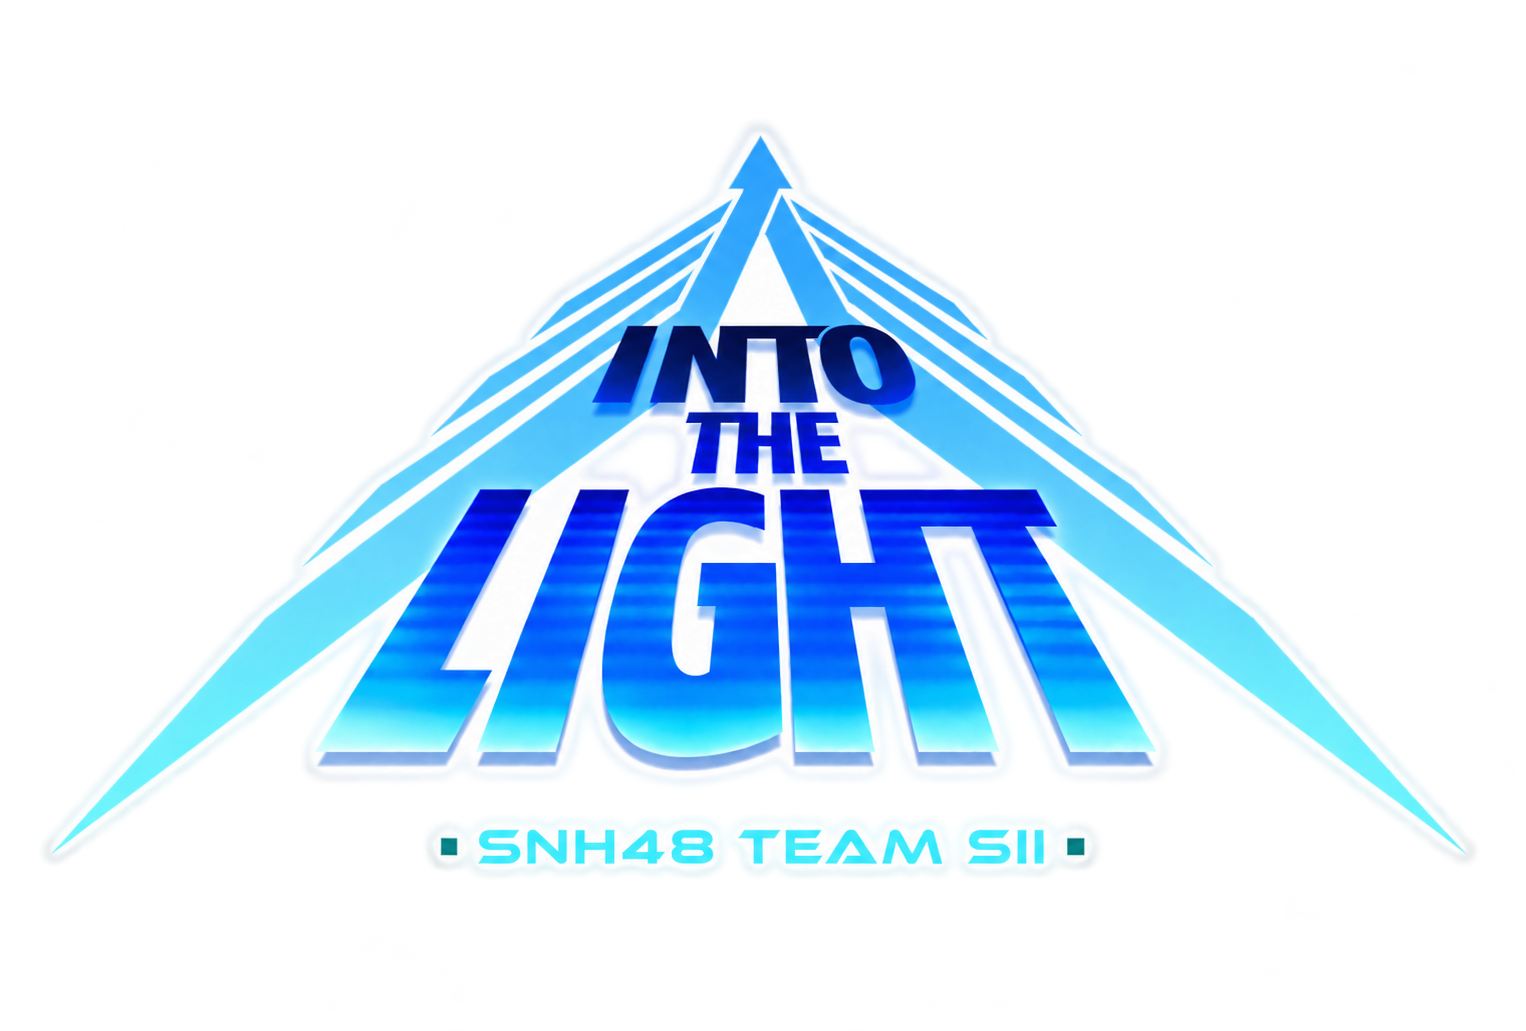
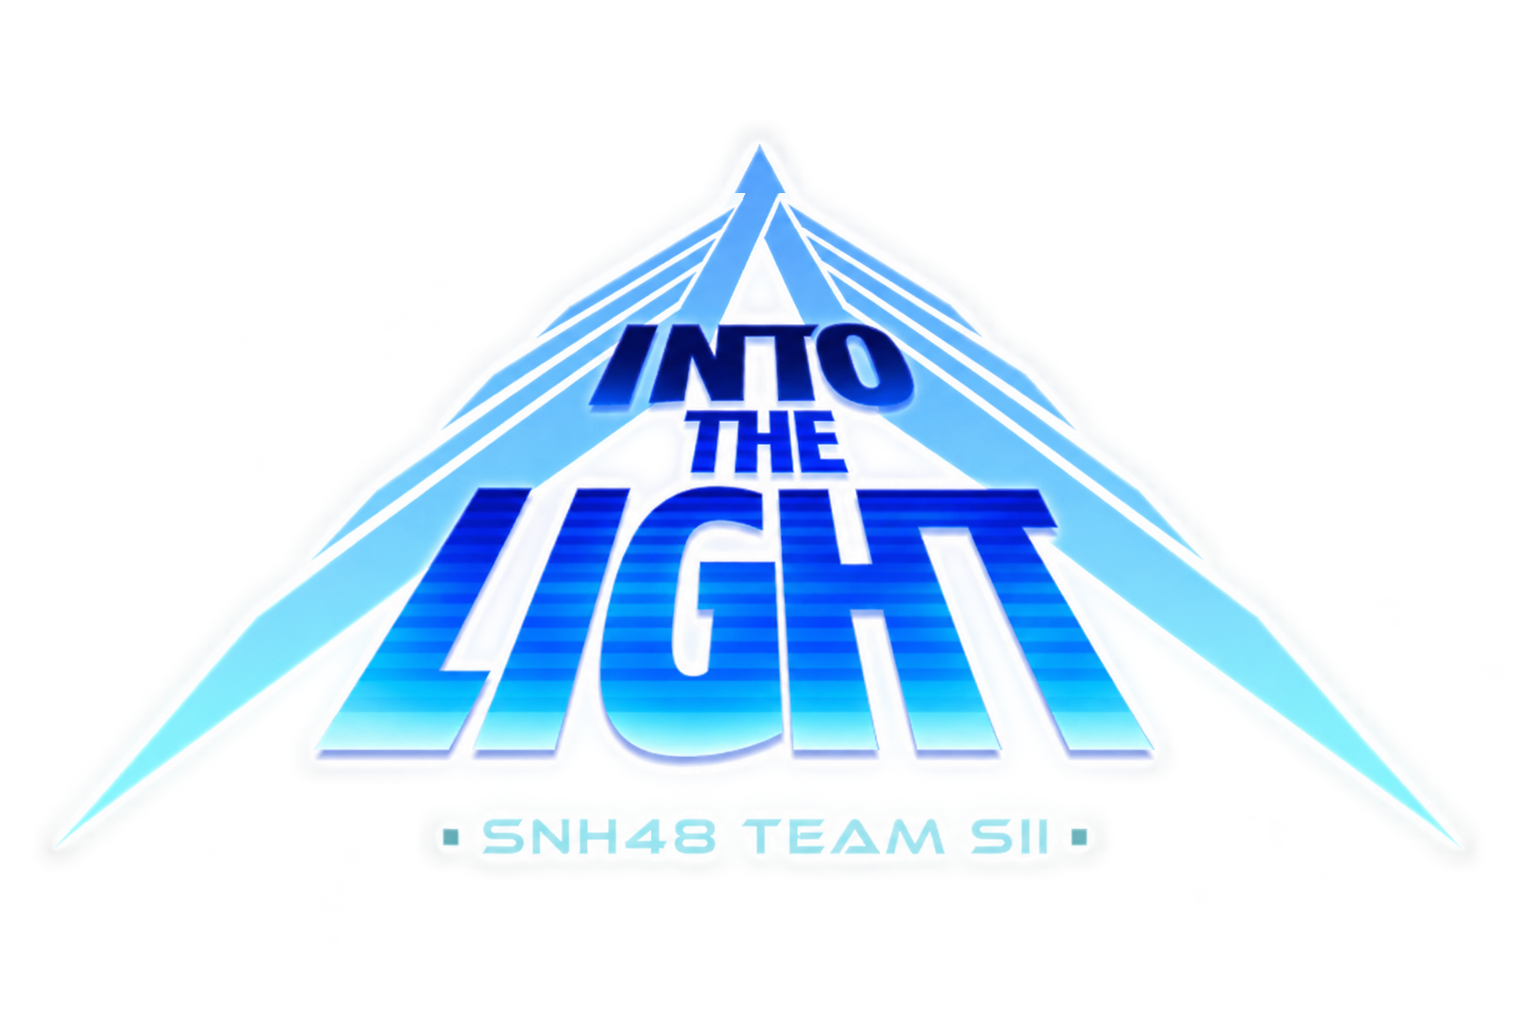
更新unit表示方式，修复ITLlogo

diff --git a/src/pages/Units.vue b/src/pages/Units.vue
@@ -24,6 +24,17 @@ const formatDate = (date) => {
   return /^\d{8}$/.test(s) ? `${s.slice(0, 4)}-${s.slice(4, 6)}-${s.slice(6, 8)}` : s
 }
 
+// 转换日期格式
+const formatCNDateFromYYYYMMDD = (dateStr) => {
+  if (!dateStr || dateStr.length !== 8) return ''
+
+  const y = dateStr.slice(0, 4)
+  const m = parseInt(dateStr.slice(4, 6), 10)
+  const d = parseInt(dateStr.slice(6, 8), 10)
+
+  return `${y}年${m}月${d}日`
+}
+
 const isMv = (item) => String(item.type || '').trim().toLowerCase() === 'mv'
 
 // 优先用 img，没有则回退到所属公演 logo
@@ -157,7 +168,7 @@ onUnmounted(() => {
                 <div class="unit-title-col">
                   <div class="unit-title">{{ item.title }}</div>
                   <div class="unit-date text-muted small mt-1">
-                    <span>{{ formatDate(item.date) }}</span>
+                    <span>发布日期：{{ formatCNDateFromYYYYMMDD(item.date) }}</span>
                     <span
                       v-if="getNotes(item)"
                       class="note-tip"
@@ -211,7 +222,7 @@ onUnmounted(() => {
                   <div class="unit-title-col">
                     <div class="unit-title">{{ item.title }}</div>
                     <div class="unit-date text-muted small mt-1">
-                    <span>{{ formatDate(item.date) }}</span>
+                    <span>首演：{{ formatCNDateFromYYYYMMDD(item.date) }}</span>
                     <span
                       v-if="getNotes(item)"
                       class="note-tip"
